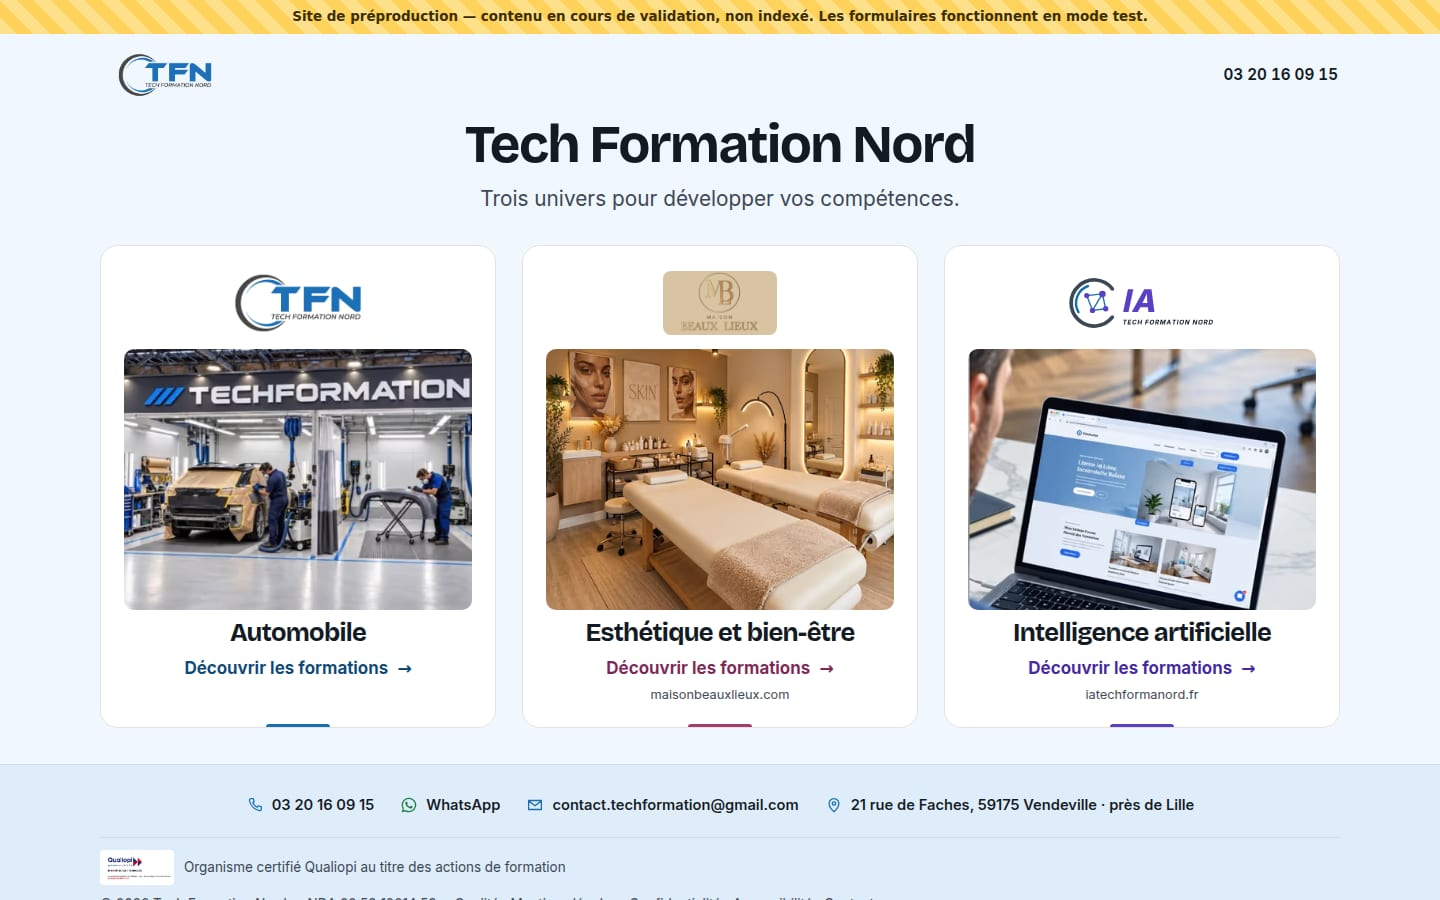
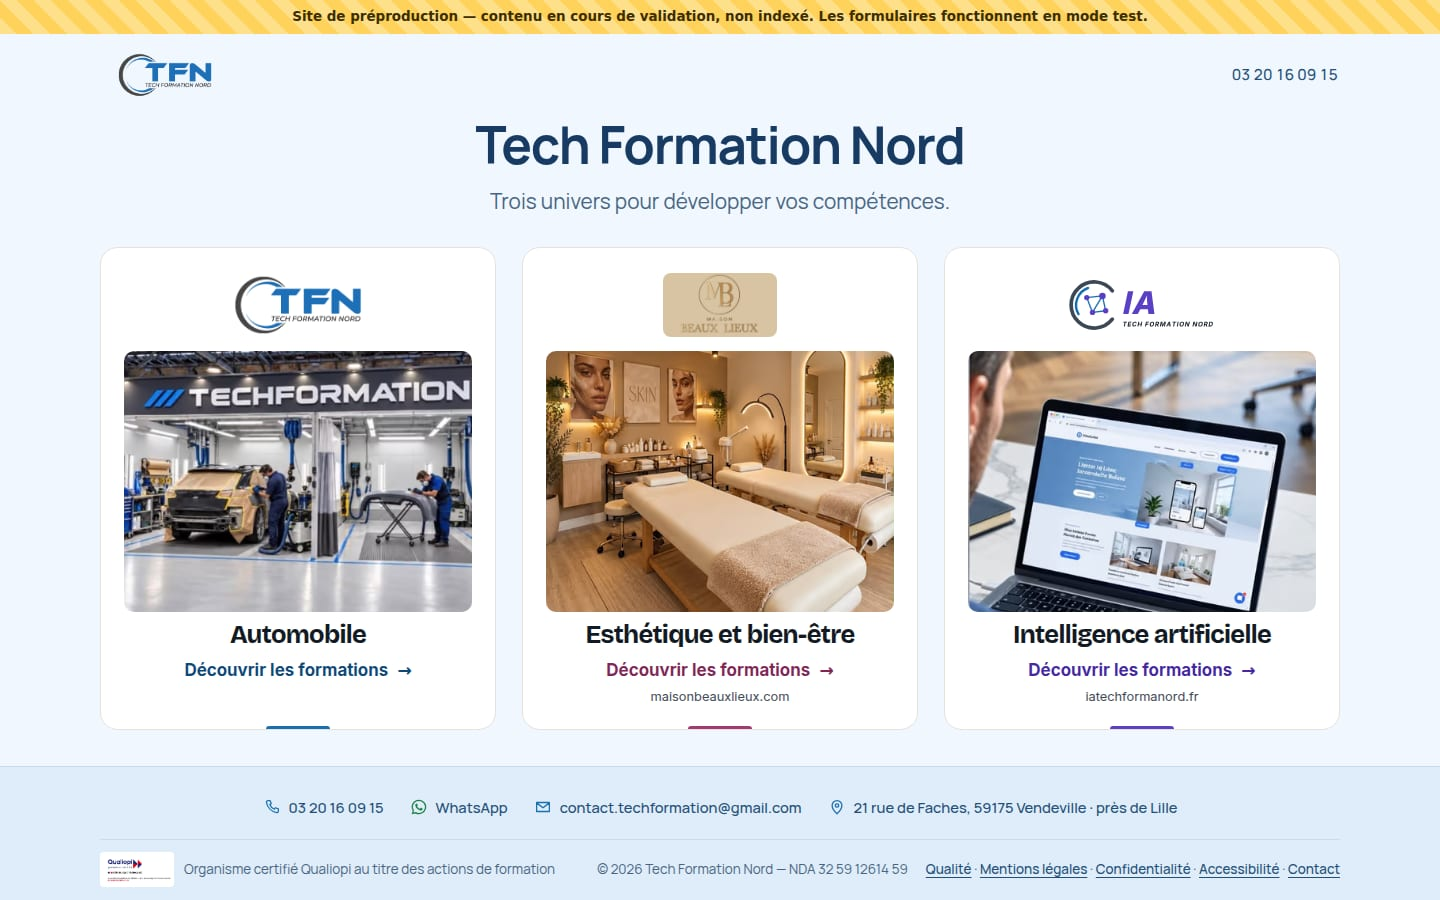
Documentation : typographie du portail, recette et captures

diff --git a/docs/procedure-retour-arriere.md b/docs/procedure-retour-arriere.md
@@ -39,7 +39,7 @@ dig +short A techformanord.fr
 
 ## E. Préproduction tfn.iatechformanord.fr
 
-Chaque version déployée en préproduction est étiquetée `tfn-site:preprod-<commit>` : `preprod-859c2cc` (avant la montée en gamme), `preprod-a8ec674` (montée en gamme, avant le portail à trois univers), `preprod-31541ab` (portail à trois univers, illustrations animées), `preprod-c2c4eaf` (portail avec les photos des trois univers et WhatsApp +33 6 86 15 89 33), `preprod-a608309` (numéros insécables sur mobile, fonds bleus du portail). Pour revenir au portail illustré, remplacer `859c2cc` par `31541ab` ci-dessous. Pour revenir à l'accueil précédent, remplacer `859c2cc` par `a8ec674` ci-dessous.
+Chaque version déployée en préproduction est étiquetée `tfn-site:preprod-<commit>` : `preprod-859c2cc` (avant la montée en gamme), `preprod-a8ec674` (montée en gamme, avant le portail à trois univers), `preprod-31541ab` (portail à trois univers, illustrations animées), `preprod-c2c4eaf` (portail avec les photos des trois univers et WhatsApp +33 6 86 15 89 33), `preprod-a608309` (numéros insécables sur mobile, fonds bleus du portail), `preprod-8a7325e` (typographie Manrope hors cartes). Pour revenir au portail illustré, remplacer `859c2cc` par `31541ab` ci-dessous. Pour revenir à l'accueil précédent, remplacer `859c2cc` par `a8ec674` ci-dessous.
 ```bash
 cd /opt/newtfn
 docker tag tfn-site:preprod-859c2cc tfn-site:preprod

diff --git a/docs/rapport-recette.md b/docs/rapport-recette.md
@@ -146,3 +146,10 @@ Vérifié sur https://tfn.iatechformanord.fr/ (`version.txt` = `c2c4eaf`) :
 - Portail : fond `#F0F7FF`, partie basse `#DFECF9` pleine largeur, filet `#C7DBEE`, cartes blanches en aplat.
 - Interactions 46/46 ; recette 4 largeurs × 24 pages : 0 débordement, 0 violation axe (hors 404 volontaire).
 - Captures mises à jour : `docs/captures/portail-ordinateur.jpg`, `docs/captures/portail-mobile.jpg`.
+
+## Portail : typographie Manrope hors cartes (version `8a7325e`, 25/10/2026)
+
+- Manrope (WOFF2 variable local `site/public/fonts/manrope-latin.woff2`, OFL 1.1, `font-display: swap`, repli sans-serif système), préchargée sur le portail seulement ; appliquée à `.portail-top`, `.portail-intro` et `.portail-foot` (aucun héritage depuis `body`).
+- Titre 700 `#173B63` (-0.025em, `clamp`, `text-wrap: balance`) ; sous-titre, mentions et Qualiopi 400 `#476582` ; téléphone, contacts et liens légaux 500 `#214F78`. Contrastes : 10,56 / 5,64 / 7,93 sur `#F0F7FF`, 9,50 / 5,07 / 7,13 sur `#DFECF9` (AA).
+- Cartes : Bricolage Grotesque et Inter inchangés (contrôle automatique) ; logos et vert WhatsApp inchangés.
+- Distant : interactions 48/48, recette 4 largeurs × 24 pages sans débordement ni violation axe, 120/120 sans numéro coupé (320 à 414 px, texte 100 % et 130 %).
